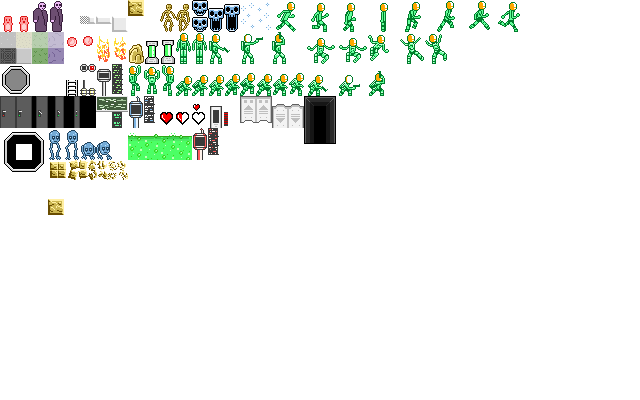
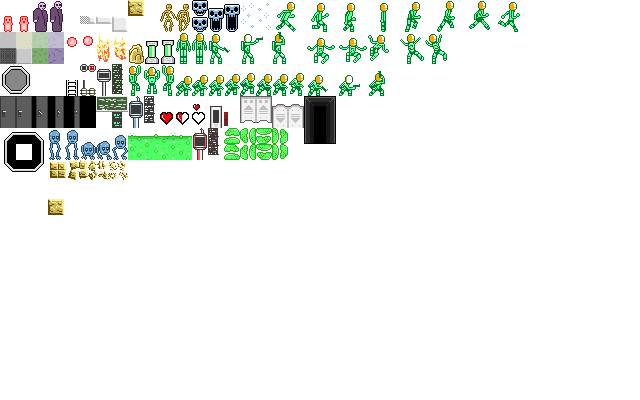
added some lil slimers

Changed region(s): [[0.3438, 0.3, 0.4688, 0.42], [0.1562, 0.33, 0.2188, 0.39]]

diff --git a/enemies.py b/enemies.py
@@ -14,7 +14,7 @@ class Enemy(actors.Actor):
         actors.Actor.__init__(self, x, y, w, h)
         self.categories.update(["enemy"])
         self.speed = 0.75 + random.random()/2
-        self.current_dir = (0, 0)
+        self.current_dir = [0, 0]
         self.max_health = 4  # four hearts
         self.health = 4
 
@@ -27,10 +27,15 @@ class Enemy(actors.Actor):
         h = self.get_rect().height
         return [(w - spr.width()) / 2, (h - spr.height()) / 2 - (64 - h) / 2]
 
+    def _update_status_tags(self, world, input_state):
+        actors.Actor._update_status_tags(self, world, input_state)
+        if self.vel[0] < 0:
+            self.facing_right = False
+        if self.vel[1] > 0:
+            self.facing_right = True
+
     def draw(self, screen, offset=(0, 0), modifier=None):
-        if modifier is None:
-            modifier = "flipped" if not self.facing_right else None
-        entities.Entity.draw(self, screen, offset, modifier)
+        entities.Entity.draw(self, screen, offset=offset, modifier=modifier)
         if self.health < self.max_health and global_state.show_enemy_health:
             health_x = self.get_rect().x + offset[0]
             health_y = self.get_rect().y + self.sprite_offset()[1] - 6 + offset[1]
@@ -49,7 +54,8 @@ class Enemy(actors.Actor):
         self.apply_physics()
 
     def do_ai_behavior(self, input_state, world):
-        pass
+        self.vel[0] = self.current_dir[0] * self.speed
+        self.vel[1] = self.current_dir[1] * self.speed
 
     def touched_player(self, player, world):
         v = cool_math.sub(player.center(), self.center())
@@ -67,6 +73,10 @@ class Enemy(actors.Actor):
             y_dir = -0.75
             self.knock_back(3, (x_dir, y_dir))
 
+    def set_direction(self, x, y):
+        self.current_dir[0] = x
+        self.current_dir[1] = y
+
 
 class DumbEnemy(Enemy):
     def __init__(self, x, y):
@@ -82,9 +92,10 @@ class DumbEnemy(Enemy):
         # change directions approx every second
         if random.random() < 1 / 60:
             if random.random() < 0.25:
-                self.current_dir = (0, 0)
+                self.set_direction(0, 0)
             else:
-                self.current_dir = cool_math.rand_direction()
+                rand_direct = cool_math.rand_direction()
+                self.set_direction(rand_direct[0], rand_direct[1])
         new_vel = cool_math.tend_towards(self.current_dir[0] * self.speed, self.vel[0], 0.3)
         self.set_vel_x(new_vel)
 
@@ -120,14 +131,15 @@ class SmartEnemy(Enemy):
         if self.is_chasing and p is not None:
             direction = cool_math.sub(p.center(), self.center())
             direction = cool_math.normalize(direction)
-            self.current_dir = direction
+            self.set_direction(direction[0], direction[1])
         else:
             # change directions approx every 30 ticks
             if random.random() < 1 / 60:
                 if random.random() < 0.25:
-                    self.current_dir = (0, 0)
+                    self.set_direction(0, 0)
                 else:
-                    self.current_dir = cool_math.rand_direction()
+                    rand_direct = cool_math.rand_direction()
+                    self.set_direction(rand_direct[0], rand_direct[1])
         new_vel = cool_math.tend_towards(self.current_dir[0] * self.speed, self.vel[0], 0.3)
         self.set_vel_x(new_vel)
 
@@ -171,3 +183,91 @@ class DodgeEnemy(SmartEnemy):
             return [r[0], r[1], r[2], int(r[3]/2)]
         else:
             return [r[0], r[1]+int(r[3]/2), r[2], int(r[3]/2)]
+
+
+class StickyEnemy(Enemy):
+    def __init__(self, x, y, clockwise=True):
+        Enemy.__init__(self, x, y, 24, 24)
+        self.orientation = [0, 1]  # points "up" with respect to enemy
+        self.clockwise = clockwise
+
+    def sprite_offset(self):
+        spr = self.sprite()
+        sign = 1 if self.clockwise else 1
+        x_offs = -self.orientation[0] * 4 * sign
+        y_offs = -self.orientation[1] * 4 * sign
+        return (int(self.width()/2 - spr.width()/2) + x_offs, int(self.height()/2 - spr.height()/2) + y_offs)
+
+    _slug_sprites = (images.ACID_SLUG_U_L, images.ACID_SLUG_D_L, images.ACID_SLUG_L_L, images.ACID_SLUG_R_L,
+                     images.ACID_SLUG_U_R, images.ACID_SLUG_D_R, images.ACID_SLUG_L_R, images.ACID_SLUG_R_R)
+
+    def sprite(self):
+        num = 4 if self.clockwise else 0
+        if self.orientation[0] != 0:
+            num += 2
+            num += 1 if self.orientation[0] > 0 else 0
+        else:
+            num += 1 if self.orientation[1] > 0 else 0
+        return StickyEnemy._slug_sprites[num]
+
+    def sprite_modifier(self):
+        return "normal"  # never flipped because of all the special case stuff
+
+    def death_sprite(self, cause=None):
+        if self.orientation[0] != 0:
+            return images.SLUG_DYING_L if self.orientation[0] < 0 else images.SLUG_DYING_R
+        else:
+            return images.SLUG_DYING_U if self.orientation[1] < 0 else images.SLUG_DYING_D
+
+    def update(self, input_state, world):
+        Enemy.update(self, input_state, world)
+
+        if self.is_grounded:
+            self.orientation[0] = 0
+            self.orientation[1] = -1
+        if self.is_left_walled:
+            self.orientation[0] = 1
+            self.orientation[1] = 0
+        if self.is_right_walled:
+            self.orientation[0] = -1
+            self.orientation[1] = 0
+
+        up_sliver = cool_math.sliver_adjacent(self.get_rect(), (0, -1), 1)
+        up = len(world.get_entities_in_rect(up_sliver, category="wall")) > 0
+        left = self.is_left_walled
+        right = self.is_right_walled
+        down = self.is_grounded
+
+        if not (up or left or right or down):
+            self.set_orientation(0, -1)
+            self.has_gravity = True
+            return
+        else:
+            pass
+
+        if self.vel[0] < -0.05:
+            self.clockwise = False
+        if self.vel[0] > 0.05:
+            self.clockwise = True
+
+    def set_orientation(self, x, y):
+        self.orientation[0] = x
+        self.orientation[1] = y
+
+    def deal_damage(self, damage, source=None, direction=None):
+        if source is not None:
+            if source.is_player():
+                self.clockwise = not self.clockwise
+            elif isinstance(source, entities.KillBlock):
+                return  # unaffected by kill blocks
+        Enemy.deal_damage(self, damage, source=source, direction=direction)
+
+    def do_ai_behavior(self, input_state, world):
+        # change directions approx every second
+        if random.random() < 1 / 60:
+            if random.random() < 0.25:
+                self.current_dir = (0, 0)
+            else:
+                self.current_dir = cool_math.rand_direction()
+        new_vel = cool_math.tend_towards(self.current_dir[0] * self.speed, self.vel[0], 0.3)
+        self.set_vel_x(new_vel)

diff --git a/images.py b/images.py
@@ -158,6 +158,7 @@ RED_GUY             = create("red_guy", [r(0, 0, 1, 2), r(1, 0, 1, 2)])
 PURPLE_GUY          = create("purple_guy", [r(2, 0, 1, 2), r(3, 0, 1, 2)])
 BLUE_GUY_UP         = create("blue_guy", [R(48 + i*16, 128, 16, 32) for i in range(0, 2)])
 BLUE_GUY_DOWN       = create("blue_guy_down", [R(80 + i*16, 128, 16, 32) for i in range(0, 2)])
+BLUE_GUY_MIDDLE     = create("blue_guy_middle", [R(112, 128, 16, 32)])
 BROWN_GUY           = create("brown_guy", [r(10, 0, 1, 2), r(11, 0, 1, 2)])
 WHITE_WALL          = create("white_wall", [r(7, 1, 1, 1)])
 WHITE_WALL_SMOL     = create("white_wall_small", [R(88, 16, 8, 8)])
@@ -192,6 +193,16 @@ BREAKABLE_WALL      = create("breakable_wall", [R(128, 0, 16, 16)])
 BREAKABLE_WALL_ANIM = create("breakable_wall_animation", [R(48 + i*20, 160, 20, 20) for i in range(0, 4)], tpf=4)
 ACID_FULL           = create("acid_full", [R(128 + i*16, 144, 16, 16) for i in range(0, 4)])
 ACID_TOP_HALF       = create("acid_top_half", [R(128 + i*16, 128, 16, 16) for i in range(0, 4)])
+
+ACID_SLUG_U_L       = create("acid_slug_u_l", [R(224, 128 + i*8, 16, 8) for i in range(0, 2)])
+ACID_SLUG_D_L       = create("acid_slug_d_l", [R(256, 128 + i*8, 16, 8) for i in range(0, 2)])
+ACID_SLUG_L_L       = create("acid_slug_l_l", [R(240 + i*8, 128, 8, 16) for i in range(0, 2)])
+ACID_SLUG_R_L       = create("acid_slug_r_l", [R(272 + i*8, 128, 8, 16) for i in range(0, 2)])
+ACID_SLUG_U_R       = create("acid_slug_u_r", [R(224, 144 + i*8, 16, 8) for i in range(0, 2)])
+ACID_SLUG_D_R       = create("acid_slug_d_r", [R(256, 144 + i*8, 16, 8) for i in range(0, 2)])
+ACID_SLUG_L_R       = create("acid_slug_l_r", [R(240 + i*8, 144, 8, 16) for i in range(0, 2)])
+ACID_SLUG_R_R       = create("acid_slug_r_r", [R(272 + i*8, 144, 8, 16) for i in range(0, 2)])
+
 
 PLAYER_IDLE         = create("player_idle", [R(176, 32, 16, 32), R(192, 32, 16, 32)])
 PLAYER_GUN          = create("player_gun", [R(208 + 32*i, 32, 24, 32) for i in range(0, 3)], tpf=10)
@@ -257,6 +268,7 @@ def draw_animated_sprite(screen, dest, animation, modifier="normal", src_subset=
 def draw_sprite(screen, dest, source_rect, modifier="normal"):
     if modifier == "flipped":
         source_rect = _flip_rect(source_rect)
+
     screen.blit(get_sheet(modifier), dest, source_rect)
 
 
@@ -296,19 +308,9 @@ def reload_sheet():
     SHEETS["white_ghosts"] = image_util.dye_sheet(sprite_sheet, (255, 255, 255), alpha=100)
     SHEETS["flipped"] = pygame.transform.flip(sprite_sheet, True, False)
 
-    raw_lightmap = pygame.image.load("res/lightmap.jpg")
-    w, h = raw_lightmap.get_size()
-    LIGHTMAP = pygame.Surface((w, h), flags=pygame.SRCALPHA)
+    # raw_lightmap = pygame.image.load("res/lightmap.jpg")
 
-    # going pixel by pixel is very slow, but only done once at launch
-    # TODO - just get a png that already has proper alpha
-    LIGHTMAP.lock()  # helps performance supposedly
-    for x in range(0, w):
-        for y in range(0, h):
-            color = raw_lightmap.get_at((x, y))
-            with_alpha = (255, 255, 255, color[0])
-            LIGHTMAP.set_at((x, y), with_alpha)
-    LIGHTMAP.unlock()
+    LIGHTMAP = image_util.create_lightmap(100)  # raw_lightmap)
 
     wipe_caches()
 
@@ -335,4 +337,8 @@ PLAYER_DYING        = image_util.create_death_animation(PLAYER_IDLE, "player_dyi
 RED_GUY_DYING       = image_util.create_death_animation(RED_GUY, "red_guy_dying", 4, 6)
 BLUE_GUY_DYING      = image_util.create_death_animation(BLUE_GUY_UP, "blue_guy_dying", 4, 6)
 BROWN_GUY_DYING     = image_util.create_death_animation(BROWN_GUY, "brown_guy_dying", 4, 6)
+SLUG_DYING_U        = image_util.create_death_animation(ACID_SLUG_U_L, "acid_slug_dying_u", 4, 6)
+SLUG_DYING_R        = image_util.create_death_animation(ACID_SLUG_R_L, "acid_slug_dying_r", 4, 6)
+SLUG_DYING_D        = image_util.create_death_animation(ACID_SLUG_D_L, "acid_slug_dying_d", 4, 6)
+SLUG_DYING_L        = image_util.create_death_animation(ACID_SLUG_L_L, "acid_slug_dying_l", 4, 6)
 print("INFO\tdone creating death animations")

diff --git a/image_util.py b/image_util.py
@@ -2,7 +2,9 @@ import pygame
 import random
 import math
 
+import cool_math
 import images
+import settings
 
 
 def reversify(animation):
@@ -93,4 +95,36 @@ def create_death_animation(base_animation, anim_id, num_frames, tpf):
     res.set_custom_sheet(sheet_id)
     images.add_sheet(sheet_id, new_surface)
     return res
+
+
+def create_lightmap(r, exp=0):
+    lightmap = pygame.Surface((r*2, r*2), flags=pygame.SRCALPHA)
+
+    throttle = settings.get_light_blend_throttle_level()
+    num_rings = None if throttle == 0 else int(9 * (1-throttle)) + 1
+    ring_alphas = [int(255*(1 - (i+0.5)/num_rings)) for i in range(0, num_rings)] if num_rings is not None else None
+
+    ctr = (r, r)
+    # going pixel by pixel is very slow, but only done once at launch
+    lightmap.lock()  # helps performance supposedly
+    for x in range(0, r*2):
+        for y in range(0, r*2):
+            pt = (x, y)
+            rel_dist = cool_math.dist(ctr, pt) / r
+            if rel_dist <= 1:
+
+                for _ in range(0, exp):
+                    rel_dist = math.sqrt(rel_dist)
+
+                if num_rings is None:
+                    alpha = int(255*(1 - rel_dist))
+                else:
+                    my_ring = min(num_rings-1, int(num_rings * rel_dist))
+                    alpha = ring_alphas[my_ring]
+
+                color = (255, 255, 255, alpha)
+                lightmap.set_at(pt, color)
+    lightmap.unlock()
+
+    return lightmap
 

diff --git a/settings.py b/settings.py
@@ -3,7 +3,8 @@ _CONFIG_FILE = "res/configs.txt"
 
 CONFIGS = {
     "level_dir": "levels/",
-    "debug_mode": True
+    "debug_mode": True,
+    "light_blend_throttle": 0
 }
 
 
@@ -14,6 +15,18 @@ FPS_THROTTLE = 1  # frames will only be drawn every X updates
 
 
 WAIT_TICKS_AFTER_DEATH = 75
+
+
+def get_light_blend_throttle_level():
+    """
+    returns float in [0, 1]. Higher number = more chunky lighting (helps reduce number of colors onscreen for gif recordings)
+    """
+    val = CONFIGS["light_blend_throttle"]
+    if isinstance(val, (int, float)) and 0 <= val <= 1:
+        return val
+    else:
+        print("ERROR\tinvalid config value \"light_blend_throttle\" = ", val)
+        return 0
 
 
 def is_debug():

diff --git a/huds.py b/huds.py
@@ -28,7 +28,7 @@ class HUD:
             entity_factory.build("white_wall_small"),
             entities.Terminal(0, 0),
             entities.ReferenceEntity(0, 0, ref_id=None),
-            enemies.DumbEnemy(0, 0),
+            enemies.StickyEnemy(0, 0),
             entity_factory.build("lightbulb"),
             entity_factory.build("wire_vert"),
         ]

diff --git a/cave_defender.py b/cave_defender.py
@@ -20,7 +20,7 @@ pygame.display.set_icon(images.get_window_icon())
 screen = pygame.display.set_mode((gs.WIDTH, gs.HEIGHT), pygame.DOUBLEBUF)
 
 sounds.init_sounds()
-sounds.play_song(sounds.SONG_CREEPY, loops=-1)
+# sounds.play_song(sounds.SONG_CREEPY, loops=-1)
 
 still_running = True
 clock = pygame.time.Clock()
